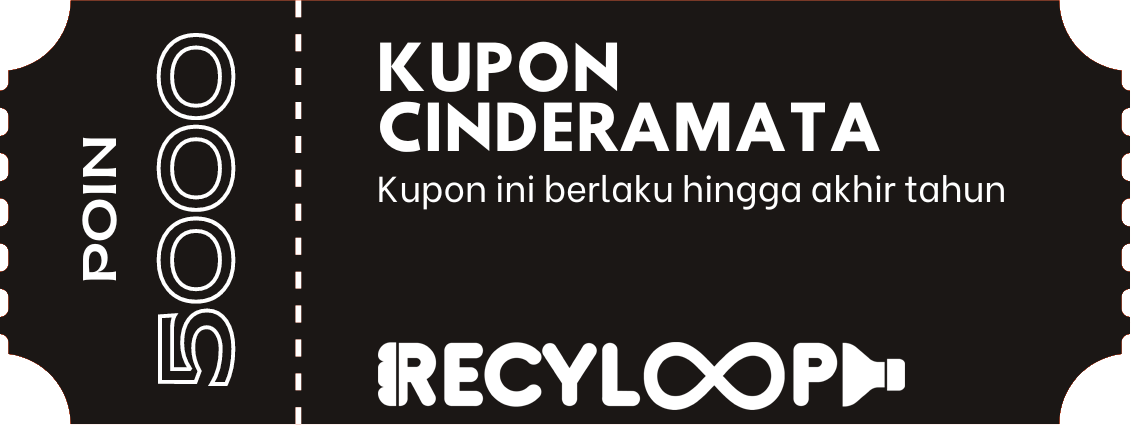
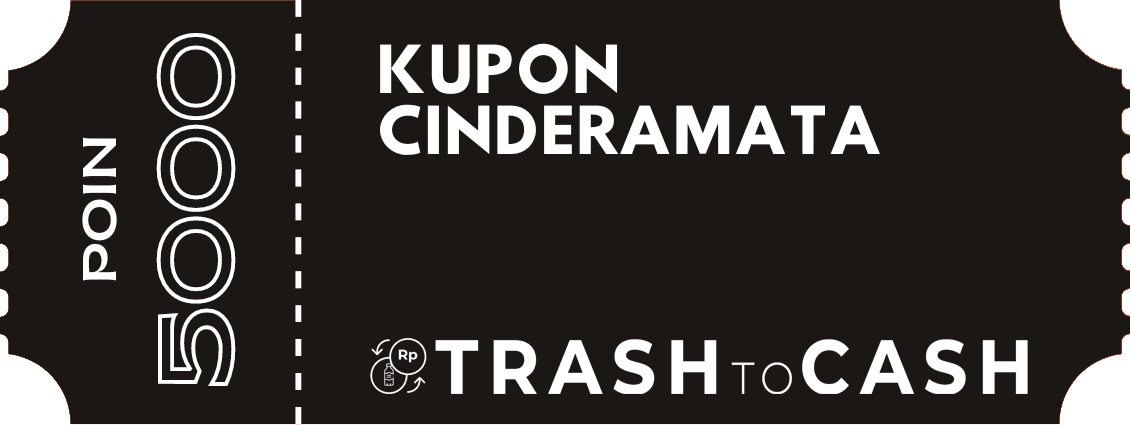
Views and controler migration

diff --git a/application/views/member/about/about-section1.php b/application/views/member/about/about-section1.php
@@ -18,12 +18,12 @@
                             <div class="col-lg-7">
                                 <div class="">
                                     <span class="mb-3 content-1 h5 text-white" style="font-weight: bold;">Kenali
-                                        <span class="tx-info-dark position-relative">Recyloop<span class="br-bottom-before"></span></span>
+                                        <span class="tx-info-dark position-relative">TrashtoCash<span class="br-bottom-before"></span></span>
                                     </span>
                                     <p class="mb-4 content-1"><span class="tx-info-dark position-relative"><b>R</b></span>ecycle <span class="tx-info-dark position-relative"><b>I</b></span>n <span class="tx-info-dark position-relative"><b>N</b></span>ature <span class="tx-info-dark position-relative"><b>O</b></span>ut </p>
                                     <ul class="list-unstyled mb-0">
                                         <li class="list-item mb-2"><a href="" class="footer-link text-white"><i class="bi bi-telephone me-3 tx-18 text-white"></i>0858 9272 6913</a></li>
-                                        <li class="list-item mb-2"><a href="" class="footer-link text-white"><i class="bi bi-envelope-plus me-3 tx-18 text-white"></i>recyloop@company.com</a></li>
+                                        <li class="list-item mb-2"><a href="" class="footer-link text-white"><i class="bi bi-envelope-plus me-3 tx-18 text-white"></i>trashtocash@company.com</a></li>
                                         <li class="list-item"><a href="" class="footer-link text-white"><i class="bi bi-geo-alt me-3 tx-18 text-white"></i>Tangerang Selatan, Banten </a></li>
                                     </ul>
                                 </div>

diff --git a/application/controllers/Member.php b/application/controllers/Member.php
@@ -15,7 +15,7 @@ class Member extends CI_Controller
     public function index()
     {
         $data = [
-            'judul'  => 'Recyloop - Penukaran Limbah Daur Ulang',
+            'judul'  => 'TrashtoCash - Penukaran Limbah Daur Ulang',
             'user'   => $this->db->get_where('user', ['username' => $this->session->userdata('username')])->row_array(),
             'limbah' => $this->LimbahModel->getLimbah(),
             'bp'     => $this->LimbahModel->getLimbahById(1),
@@ -108,7 +108,7 @@ class Member extends CI_Controller
         }
 
         $data = [
-            'judul' => 'Recyloop - Penukaran Limbah Daur Ulang',
+            'judul' => 'TrashtoCash - Penukaran Limbah Daur Ulang',
             'user' => $this->db->get_where('user', ['username' => $this->session->userdata('username')])->row_array(),
             'company' => $this->db->get('company')->result_array(),
             'review' => $formatted_reviews,
@@ -119,7 +119,7 @@ class Member extends CI_Controller
         $this->load->view('member/about/about-section1', $data);
         $this->load->view('member/about/about-section2', $data);
         $this->load->view('member/about/about-section3', $data);
-        $this->load->view('member/about/about-section4', $data);
+        // $this->load->view('member/about/about-section4', $data);
         $this->load->view('member/about/about-section5', $data);
         $this->load->view('member/about/about-section6', $data);
         $this->load->view('member/about/about-footer');

diff --git a/application/views/member/about/about-section3.php b/application/views/member/about/about-section3.php
@@ -8,10 +8,10 @@
                     <div class="heading-title text-white">Dukungan Teknis 24 Jam</div>
                     <div class="heading-description text-white op-8">Kirim pesan kepada kami</div>
                 </div>
-                <p class="mb-3 op-8">Jika Anda memiliki pertanyaan, masalah, atau kendala terkait Recyloop, Anda
+                <p class="mb-3 op-8">Jika Anda memiliki pertanyaan, masalah, atau kendala terkait TrashtoCash, Anda
                     dapat menghubungi kami.</p>
-                <p class="tx-20 fw-500">Hubungi kami : <a href="https://wa.me/6285692726913?text=Halo%20Recyloop%" class="text-white me-1">0813-2800-0052</a> atau <a href="https://wa.me/6285692726913?text=Halo%20Recyloop%" class="text-white ms-1">0813-2800-0010</a></p>
-                <a href="https://wa.me/6285692726913?text=Halo%20Recyloop%" class="btn btn-lg btn-secondary">Hubungi Sekarang</a>
+                <p class="tx-20 fw-500">Hubungi kami : <a href="https://wa.me/6285692726913?text=Halo%20TrashtoCash%" class="text-white me-1">0813-2800-0052</a> atau <a href="https://wa.me/6285692726913?text=Halo%20Recyloop%" class="text-white ms-1">0813-2800-0010</a></p>
+                <a href="https://wa.me/6285692726913?text=Halo%20TrashtoCash%" class="btn btn-lg btn-secondary">Hubungi Sekarang</a>
             </div>
             <div class="col-lg-5">
                 <div class="text-center mt-5 mt-lg-0">

diff --git a/application/controllers/Log.php b/application/controllers/Log.php
@@ -151,7 +151,7 @@ class Log extends CI_Controller
         ];
 
         $sroot = $_SERVER['DOCUMENT_ROOT'];
-        include $sroot . "/recyloop/application/third_party/dompdf/autoload.inc.php";
+        include $sroot . "/trashtocash/application/third_party/dompdf/autoload.inc.php";
         $dompdf = new Dompdf\Dompdf();
 
         $html = $this->load->view("admin/log/pdf_withdraw", $data, TRUE);
@@ -192,7 +192,7 @@ class Log extends CI_Controller
         ];
 
         $sroot = $_SERVER['DOCUMENT_ROOT'];
-        include $sroot . "/recyloop/application/third_party/dompdf/autoload.inc.php";
+        include $sroot . "/trashtocash/application/third_party/dompdf/autoload.inc.php";
         $dompdf = new Dompdf\Dompdf();
 
         $html = $this->load->view("admin/log/pdf_transaction", $data, TRUE);
@@ -274,7 +274,7 @@ class Log extends CI_Controller
         ];
 
         $sroot = $_SERVER['DOCUMENT_ROOT'];
-        include $sroot . "/recyloop/application/third_party/dompdf/autoload.inc.php";
+        include $sroot . "/trashtocash/application/third_party/dompdf/autoload.inc.php";
         $dompdf = new Dompdf\Dompdf();
 
         $html = $this->load->view("admin/log/pdf_accounting", $data, TRUE);

diff --git a/application/controllers/Perusahaan.php b/application/controllers/Perusahaan.php
@@ -48,9 +48,9 @@ class Perusahaan extends CI_Controller
             $this->load->view("templates/admin/footer");
         } else {
             $dataInformasi = [
-                'nama' => 'Recyloop',
+                'nama' => 'TrashtoCash',
                 'img_logo' => 'main-logo.png',
-                'tagline' => '#Recyloop',
+                'tagline' => '#TrashtoCash',
                 'lokasi' => 'Krakatau',
                 'judul' => htmlspecialchars($this->input->post('judul')),
                 'deskripsi' => $this->input->post('deskripsi')
@@ -86,9 +86,9 @@ class Perusahaan extends CI_Controller
             $this->load->view("templates/admin/footer");
         } else {
             $dataInformasi = [
-                'nama' => 'Recyloop',
+                'nama' => 'TrashtoCash',
                 'img_logo' => 'main-logo.png',
-                'tagline' => '#Recyloop',
+                'tagline' => '#TrashtoCash',
                 'lokasi' => 'Krakatau',
                 'judul' => htmlspecialchars($this->input->post('judul')),
                 'deskripsi' => $this->input->post('deskripsi')

diff --git a/application/controllers/About.php b/application/controllers/About.php
@@ -11,7 +11,7 @@ class About extends CI_Controller
     public function index()
     {
         $data = [
-            'judul' => 'Recyloop - Penukaran Limbah Daur Ulang',
+            'judul' => 'TrashtoCash - Penukaran Limbah Daur Ulang',
             'user' => $this->db->get_where('user', ['username' => $this->session->userdata('username')])->row_array(),
             'company' => $this->db->get('company')->result_array(),
             'review' => $this->MemberModel->getReview()

diff --git a/application/views/member/about/about-section4.php b/application/views/member/about/about-section4.php
@@ -5,7 +5,7 @@
                 <div class="heading-subtitle"><span class="tx-primary tx-16 fw-semibold">Tim Kami</span>
                 </div>
                 <div class="heading-title">Anggota Tim <span class="tx-primary">Eksekutif Kami</span></div>
-                <div class="heading-description">Pengembang Inti Recyloop</div>
+                <div class="heading-description">Pengembang Inti TrashtoCash</div>
             </div>
         </div>
         <div class="row">

diff --git a/application/controllers/Withdraw.php b/application/controllers/Withdraw.php
@@ -185,7 +185,7 @@ class Withdraw extends CI_Controller
         ];
 
         $sroot = $_SERVER['DOCUMENT_ROOT'];
-        include $sroot . "/recyloop/application/third_party/dompdf/autoload.inc.php";
+        include $sroot . "/trashtocash/application/third_party/dompdf/autoload.inc.php";
         $dompdf = new Dompdf\Dompdf();
 
         $html = $this->load->view('admin/withdraw/receipt', $data, TRUE);

diff --git a/application/controllers/Admin.php b/application/controllers/Admin.php
@@ -67,7 +67,7 @@ class Admin extends CI_Controller
             return;
         }
 
-        $config['base_url'] = 'http://localhost/recyloop/admin/staff/staff';
+        $config['base_url'] = 'http://localhost/trashtocash/admin/staff/staff';
         $config['total_rows'] = $this->UserModel->countAllStaff(2);
         $config['per_page'] = 5;
         $start = $this->uri->segment(4);

diff --git a/application/controllers/Home.php b/application/controllers/Home.php
@@ -11,7 +11,7 @@ class Home extends CI_Controller
 
     public function index()
     {
-        $data['judul'] = 'Recyloop.id';
+        $data['judul'] = 'TrashtoCash.id';
         $data = [
             'limbah' => $this->LimbahModel->getLimbah(),
             'bp' => $this->LimbahModel->getLimbahById(1),

diff --git a/application/controllers/Buy.php b/application/controllers/Buy.php
@@ -9,7 +9,7 @@ class Buy extends CI_Controller
 
     public function index()
     {
-        $data['judul'] = 'Recyloop.id';
+        $data['judul'] = 'TrashtoCash.id';
 
         $this->load->view('templates/home_header', $data);
         $this->load->view('home/buy/buy.php', $data);
